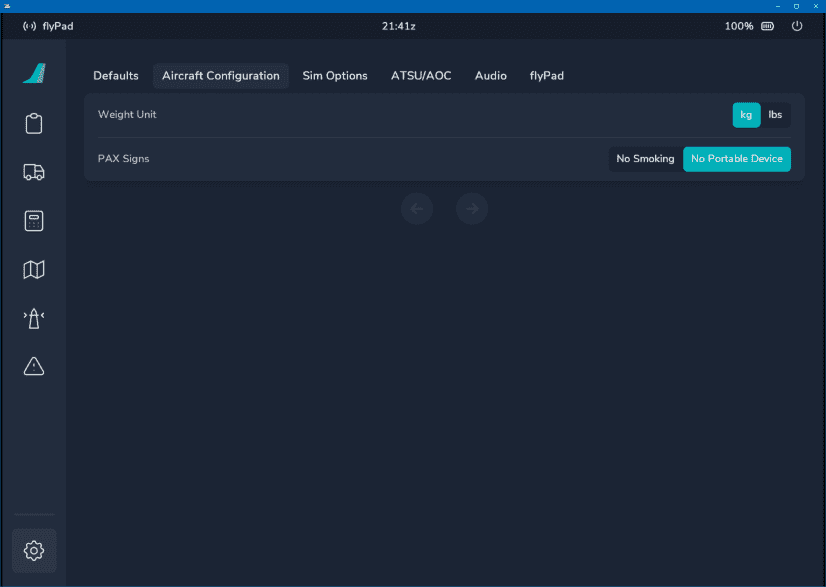
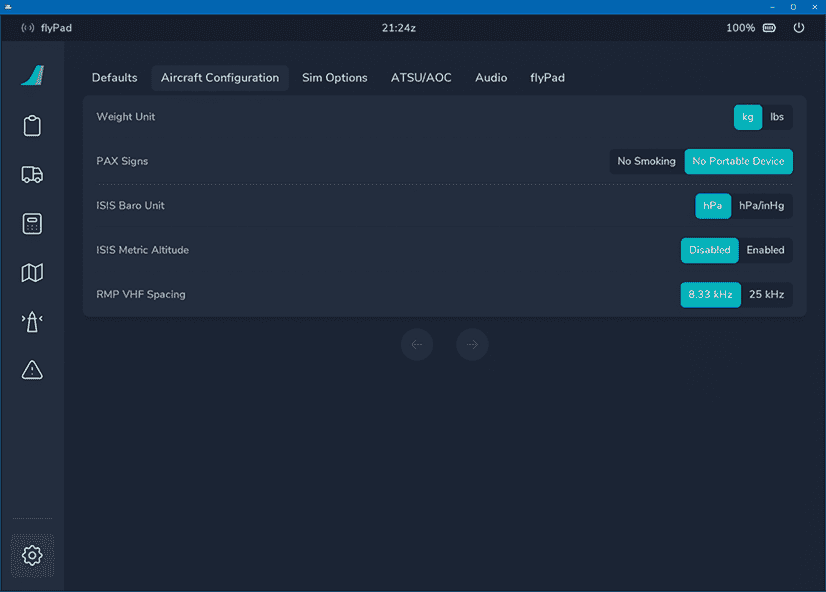
Update to flyPad Settings +ISIS +RMP-Spacing (#260)

diff --git a/docs/fbw-a32nx/feature-guides/flyPad/settings.md b/docs/fbw-a32nx/feature-guides/flyPad/settings.md
@@ -51,6 +51,19 @@ Settings for A32NX aircraft configuration.
     - The weight unit of the aircraft used for aircraft weight, fuel and simBrief imports.
 - PAX Signs:
     - Configures if the aircraft should use "No Smoking" or "No Portable Devices" in its ECAM message when the no smoking selector switch on the overhead panel is selected on.
+- ISIS Baro Unit
+    - User can set which baro setting he wants to have in the ISIS backup instrument.
+- ISIS Metric Altitude
+    - User can set which units setting he wants to have in the ISIS backup instrument.
+- RMP VHF Spacing
+    - Changes the spacing for selectable frequencies in the RMPs from 8.33kHz to 25kHz and vice versa.
+
+    ??? note "Channel Spacing (click to expand)"
+         Aircraft radio systems transmit on a Very High Frequency (VHF) band between 117.975 and 137 MHz. The number of available VHF assignments has increased over the years by splitting the radio spectrum into narrower bandwidths from 50-kHz to 25-kHz channels. The bandwidth can support 760 channels, if channels are spaced by 25 kHz. In 1994, it was decided to introduce a further channel split from 25 to 8.33 kHz. 8.33-kHz spacing was introduced above Flight Level (FL) 240 in International Civil Aviation Organization (ICAO) European (EUR) regions in October 1999 and above FL 195 from March 15, 2007. Currently, 8.33-kHz channels have been implemented in the airspace of all 20 ICAO EUR region states. So far, Europe is the only region that’s moved to 8.33-kHz channel spacing.
+
+         Source: [universalweather.com](https://www.universalweather.com/blog/8-33-khz-radio-channel-spacing-changes-are-coming-to-europe/){target=new)}
+         
+         See also: [8.33kHz Voice Channel Spacing communications](https://833radio.com/news/show/7){target=new}
 
 ## Sim Options
 
